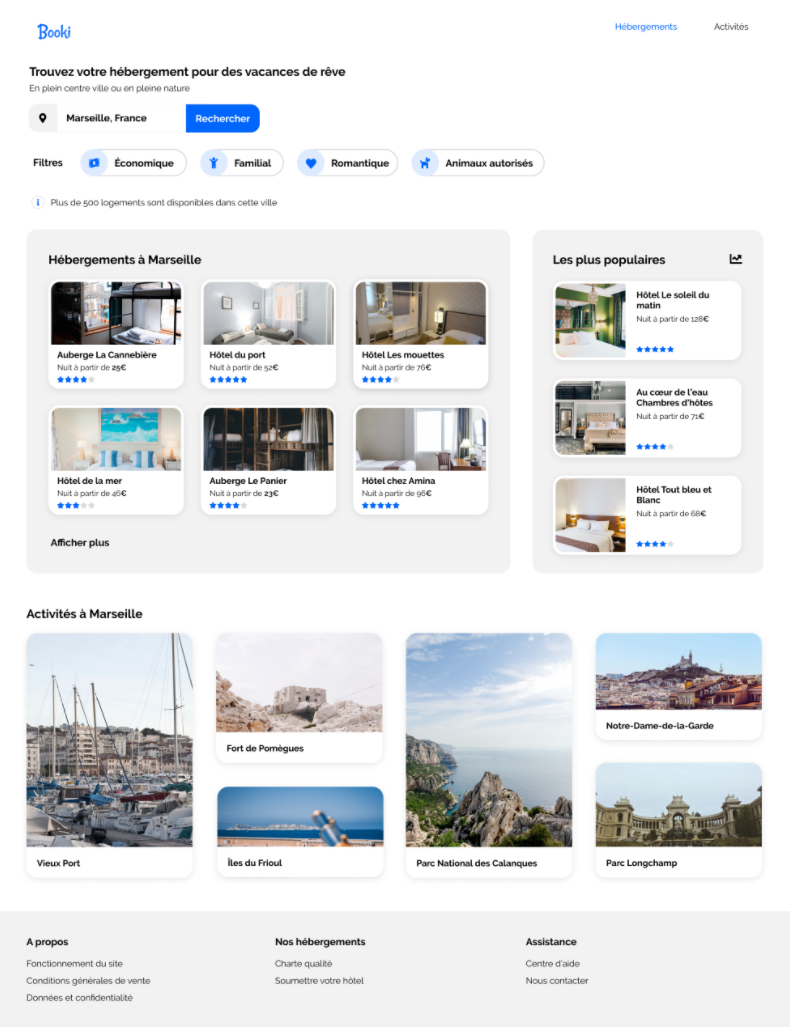
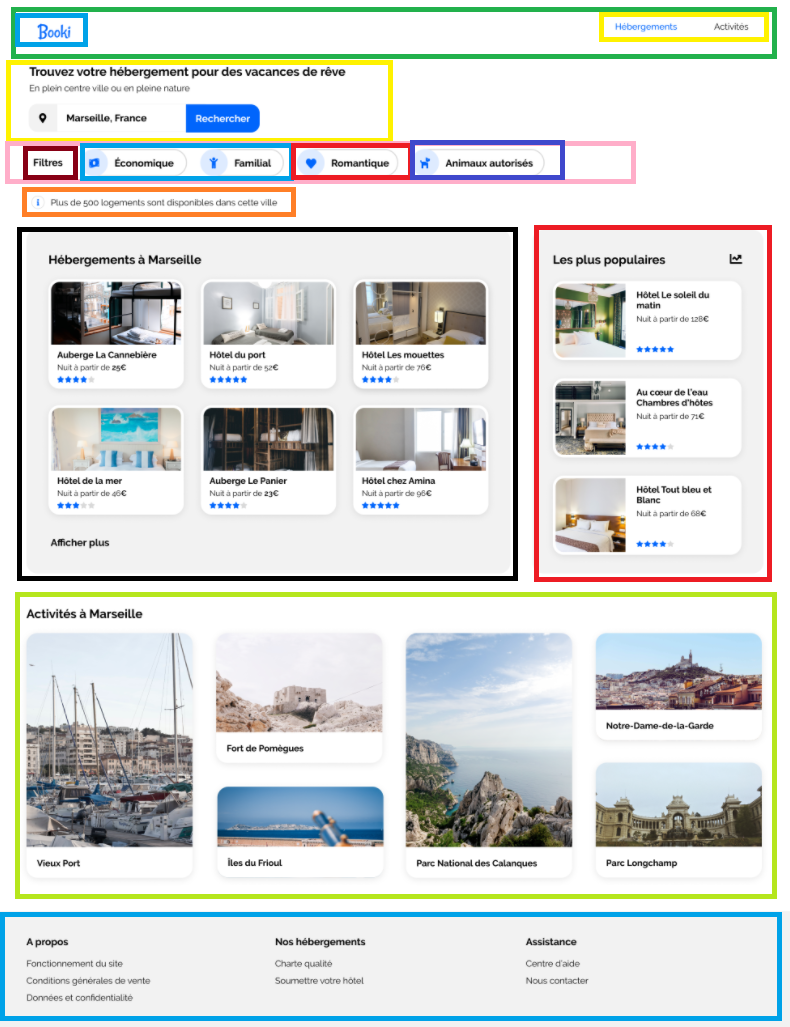
ajout du search

Changed region(s): [[0.0, 0.0, 1.0, 0.9971]]

diff --git a/style.css b/style.css
@@ -1,5 +1,15 @@
 @import url('https://fonts.googleapis.com/css2?family=Raleway:wght@300;400;500;600;700;800;900&display=swap');
 
+:root{
+--blue:#0065fc;
+--darkgrey:#d9d9d9;
+--lightgrey: #f2f2f2;
+--lightblue: #deebff;
+--lighterblue: #f3f8ff;
+
+
+
+}
 
 * {
   box-sizing: border-box;
@@ -19,7 +29,7 @@ nav {
 
 nav a {
     padding: 2rem;
-    border: 1px solid red;
+   
 }
 
 
@@ -59,5 +69,133 @@ padding: 0 2rem;
 }
 .sub-nav a:hover {
     border-bottom: 3px solid var(--blue);
-    border-top-color: transparent;
+    border-top: 3px solid transparent;
+    color: var(--blue)
+}
+/* BODY */
+.wrapper {
+    padding: 0 2rem;
+}
+
+.wrapper h1,
+.wrapper p {
+    margin-bottom: 1rem;
+}
+
+/* SEARCH-FORM*/
+.search-form {
+    display:flex;
+    align-items: center;
+    font-size: 1.2rem;
+}
+.search-form > * {
+    padding: 1rem 1.5rem;
+    font-size: 1.2rem;
+    margin-bottom: 1rem;
+}
+
+
+.search-form input::placeholder {
+    padding: 1rem 1.5rem;
+}
+
+.search-form i {
+    background-color: lightgrey ;
+    border-radius: 1rem 0 0 1rem;
+
+}
+
+.search-form input {
+    flex-basis: 16rem;
+    border: 1px solid lightgrey
+    overflow: auto;
+}
+
+
+.search-form button {
+    background-color:#0065fc;
+    color: white;
+    font-weight: bold;
+    border-radius:0 1rem 1rem 0 ;
+    border : none;
+    cursor: pointer;
+    opacity: 0.9;
+    transition: transform 200ms;
+}
+
+.search-form button:hover{
+    opacity: 1;
+    transform: scale(1.03)
+}
+
+@media (max-width: 800px) {
+ .search-form .search-text {
+     display: none;
+ }
+   
+ .fas.fa-search{
+     display: inline;
+     background-color:  inherit;
+ }
+
+
+/*FILTERS*/
+.filter-list{
+    display:flex;
+    align-items: center;
+    gap: 1rem 2rem;
+    flex-wrap: wrap;
+    margin-bottom: 1rem;
+}
+
+.filter-list h1 {
+    margin-bottom: 0;
+}
+
+.filter {
+    border: 2px solid var(--lightgrey);
+    border-radius: 2rem;
+    display: flex;
+    align-items: center;
+    transition: all 100ms;
+}
+.filter .fas{
+color:blue;
+background-color: var(--lightblue);
+border-radius: 50%;
+margin: -2px;
+width: 3rem;
+height: 3rem;
+display: flex;
+align-items: center;
+justify-content: center;
+
+}
+.filter span {
+  font-weight: bold; 
+  padding: 0 1rem; 
+}
+
+.filter:hover {
+background-color: var(--lightblue);
+transform: scale(1.02);
+
+}
+
+/* RESULTS MESSAGE */
+.result.message {
+display: flex;
+align-items: center;
+gap: 1rem;
+}
+
+.results.message .fas {
+   color: var(--blue);
+   width: 2rem;
+   height: 2rem;
+   border: 1px solid var(--darkgrey);
+   border-radius: 50%;
+   display: flex;
+   align-items: center;
+   justify-content: center;
 }

diff --git a/index.html b/index.html
@@ -1,1 +1,74 @@
-<h1>salut</h1>
+<!DOCTYPE html>
+<html lang="en">
+<head>
+    <meta charset="UTF-8">
+    <meta http-equiv="X-UA-Compatible" 
+     content="IE=edge">
+    <meta name="viewport" content="width=device-width,
+    initial-scale=1.0"> 
+    <title>Booki</title>
+    <script src="https://kit.fontawesome.com/91956c75eb.js" crossorigin="anonymous"></script>
+    <link rel="stylesheet" href="style.css">
+</head>
+<body>
+  <!--NAVBAR-->
+ <header>       
+     <nav>
+         <img id= "logo" src="./Booki.png" 
+         alt="Booki Logo">
+         <div class="sub-nav">
+         <a href="">Activités</a>
+         <a href="">Hébergement</a>
+        </div>  
+      </nav>
+   </header> 
+    <main class="wrapper">
+      <!--SEARCH-->
+      <h1>Trouvez votre hébergement pour des vacances de rêve</h1>
+      <p>En plein centre ville ou en pleine nature</p>
+
+    <!--SEARCH FORM-->
+    <div class="search-form">
+      <i><i class="fa-solid fa-location-dot"></i></i>
+      <input type="text" placeholder="Marseille, France">
+      <button>
+        <span class="search-text">Rechercher</span>
+      <i class="fas fa-search"></i>
+      </button>
+    </div>
+
+    <!--FILTERS-->
+<div class="filter-list">
+  <h1>Filters</h1>
+  <div class="filter">
+    <i class=" fas fa-money-bill-wave"></i>
+
+    <span>Economique</span>
+</div>
+<div class="filter">
+  <i class=" fas fa-child"></i>
+  
+  <span>Familial</span>
+</div>
+<div class="filter">
+  <i class=" fas fa-heart"></i>
+  
+  <span>Romantique</span>
+</div>
+<div class="filter">
+  <i class=" fas fa-dog"></i>
+  
+  <span>Animaux autorisés</span>
+</div>
+
+<!--RESULTS MESSAGES-->
+<div class="results-message">
+  <i class="fas fa-info"></i>
+  <p>Plus de 500 logements sont disponibles dans cette 
+    ville</p>
+</div>
+    </main>
+ </body>        
+
+</html> 
+
